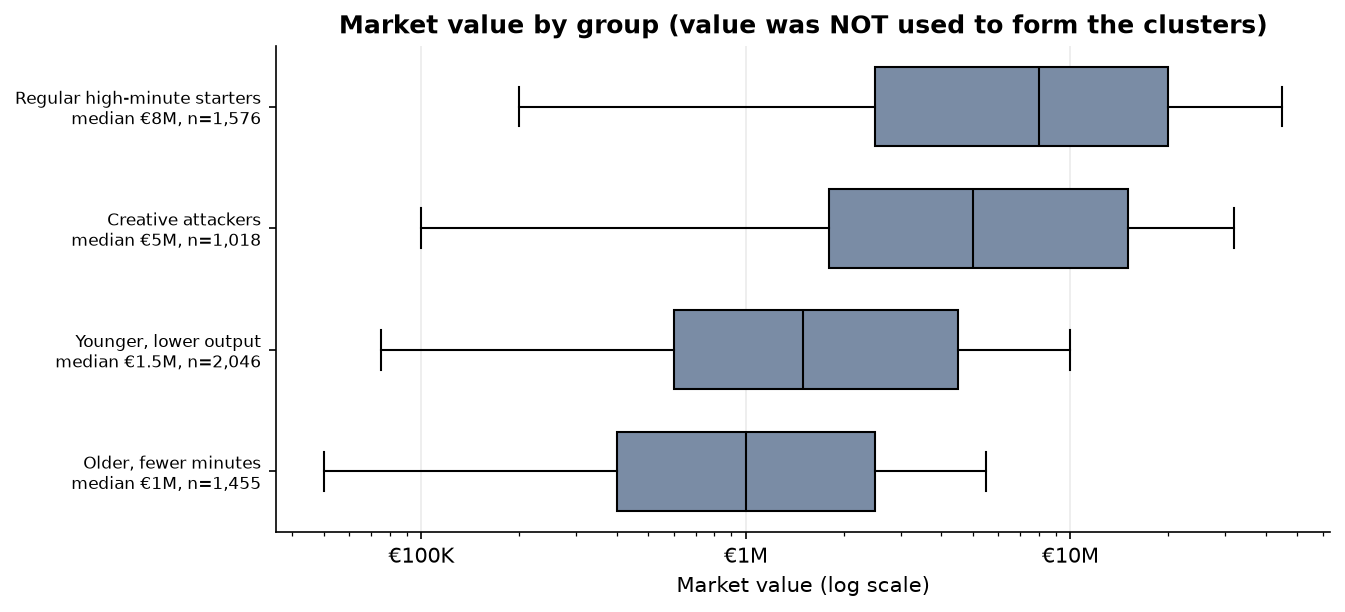
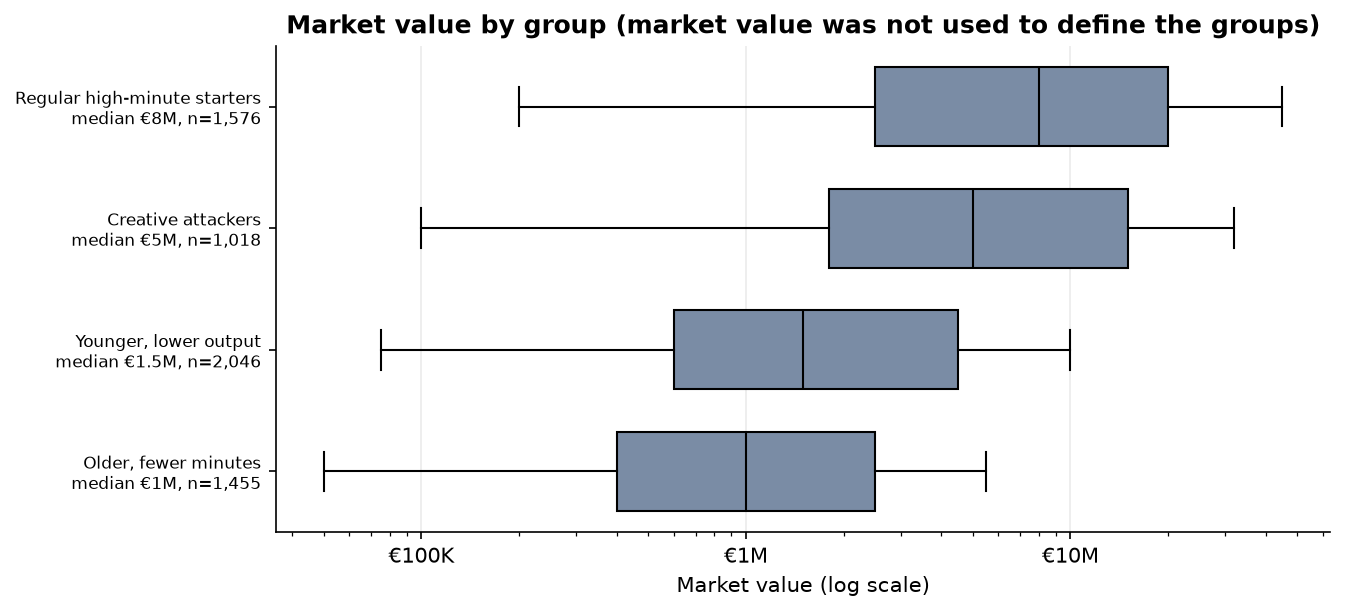
fix(app): stop calling rule-based segments clusters; readable table headers
Group value chart title now says 'groups' (it is shared by K-means clusters
and rule-based segments). Segment table uses display labels. Seasons metric
no longer truncates.

Changed region(s): [[0.2186, 0.0, 0.9993, 0.0621]]

diff --git a/app.py b/app.py
@@ -52,7 +52,7 @@ if page == "Overview":
     c = st.columns(5)
     c[0].metric("Player-seasons", f"{len(df):,}")
     c[1].metric("Distinct players", f"{df['player_id'].nunique():,}")
-    c[2].metric("Seasons", f"{season_label(df['season'].min())} to {season_label(df['season'].max())}")
+    c[2].metric(f"Seasons ({season_label(df['season'].min())} to {season_label(df['season'].max())})", df["season"].nunique())
     c[3].metric("Leagues", df["competition"].nunique())
     c[4].metric("Positions", df["position"].nunique())
     show(plots.fig_value_distribution(df))
@@ -147,7 +147,10 @@ elif page == "Player segments":
     prof = (g.groupby(col).agg(players=("age", "size"), median_age=("age", "median"), median_minutes=("total_minutes", "median"),
                                goals_per_90=("goals_per_90", "median"), assists_per_90=("assists_per_90", "median"),
                                median_value_eur=(MV, "median")).sort_values("median_value_eur", ascending=False).round(2))
-    st.dataframe(prof)
+    st.dataframe(prof.rename_axis("Group").rename(columns={
+        "players": "Players", "median_age": "Median age", "median_minutes": "Median minutes",
+        "goals_per_90": "Goals/90 (median)", "assists_per_90": "Assists/90 (median)",
+        "median_value_eur": "Median value (EUR)"}))
     a, b = st.columns(2)
     with a:
         show(plots.fig_group_heatmap(g, col, FEATURES))

diff --git a/src/plots.py b/src/plots.py
@@ -319,7 +319,7 @@ def fig_value_by_group(a, group_col):
     ax.set_yticks(range(1, len(order) + 1), [f"{g}\nmedian {eur(x.median())}, n={len(x):,}" for g, x in zip(order, data)],
                   fontsize=8)
     _log_axis(ax, "x")
-    ax.set(title="Market value by group (value was NOT used to form the clusters)", xlabel="Market value (log scale)")
+    ax.set(title="Market value by group (market value was not used to define the groups)", xlabel="Market value (log scale)")
     ax.grid(axis="y", visible=False)
     fig.tight_layout()
     return fig
